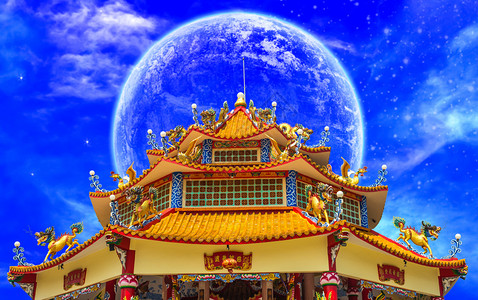
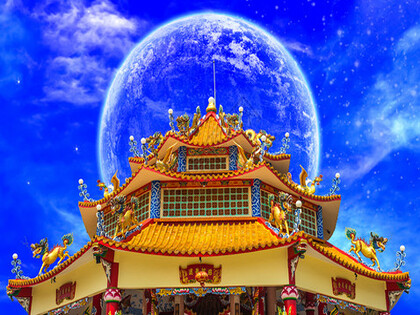
add 鋸齒

diff --git a/src/views/AboutView.vue b/src/views/AboutView.vue
@@ -74,6 +74,10 @@ export default {
         canvas.style.width = 420 + 'px'
         canvas.style.height = 315 + 'px'
         const context = canvas.getContext('2d')
+        context.mozImageSmoothingEnabled = false
+        context.webkitImageSmoothingEnabled = false
+        context.msImageSmoothingEnabled = false
+        context.imageSmoothingEnabled = false
         // Set actual size in memory (scaled to account for extra pixel density).
         const devicePixelRatio = window.devicePixelRatio || 1 // 乘像素比解決模糊 app
         const backingStoreRatio = context.webkitBackingStorePixelRatio ||
@@ -194,13 +198,13 @@ export default {
   margin: 0 auto;
   width: 420px;
   height: 315px;
-  background-image: url("../assets/sea3.jpg");
+  background-image: url("../assets/sea300.jpg");
   background-repeat: no-repeat;
   background-size: 100% 100%;
 }
-#img3{
-  display: none;
-}
+// #img3{
+//   display: none;
+// }
 // canvas{
 //   transform: scale(0.5 , 0.5);
 //   transform-origin: top left;
